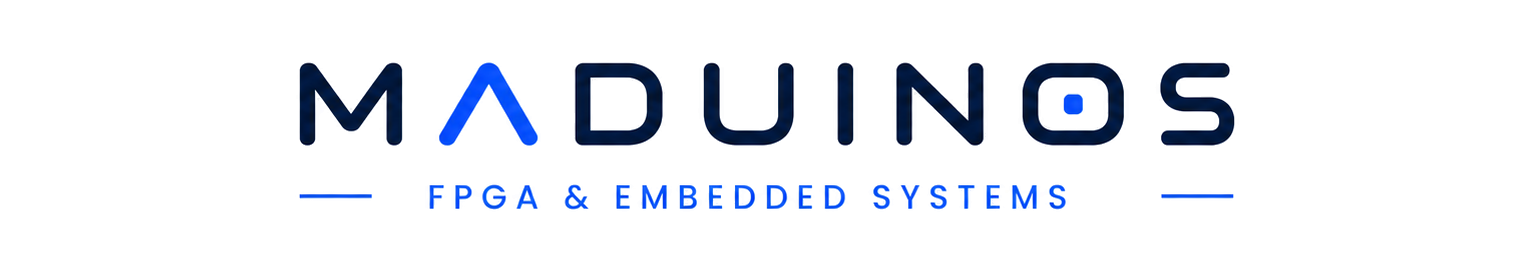
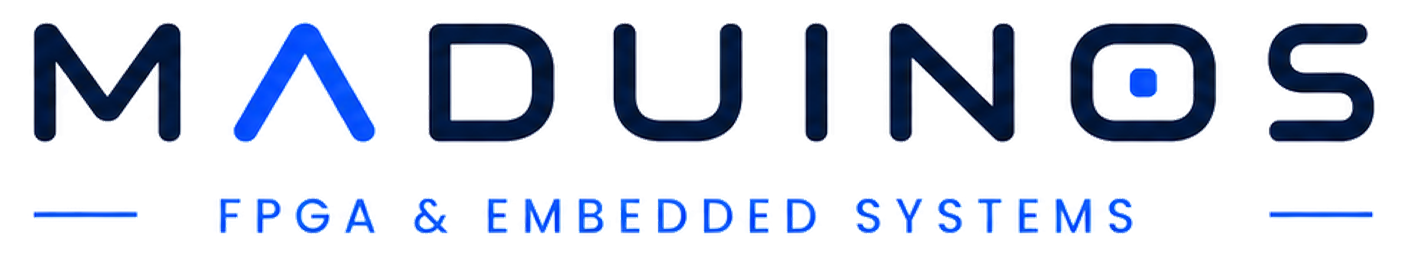
Enlarge header wordmark

diff --git a/assets/maduinos-biz.css b/assets/maduinos-biz.css
@@ -74,8 +74,8 @@ img { display: block; max-width: 100%; height: auto; }
 }
 
 .brand-logo {
-  width: 300px;
-  max-width: 62vw;
+  width: 380px;
+  max-width: 82vw;
 }
 
 .nav-links {

diff --git a/tools/verify_biz_web.py b/tools/verify_biz_web.py
@@ -462,7 +462,7 @@ def main() -> int:
         if link not in preview:
             fail(f"preview should link directly to product detail page: {link}")
 
-    if ".brand-logo" not in css or "width: 300px" not in css:
+    if ".brand-logo" not in css or "width: 380px" not in css or "max-width: 82vw" not in css:
         fail("header brand should use the larger clean MADUINOS wordmark image")
 
     if "var(--" not in css:
